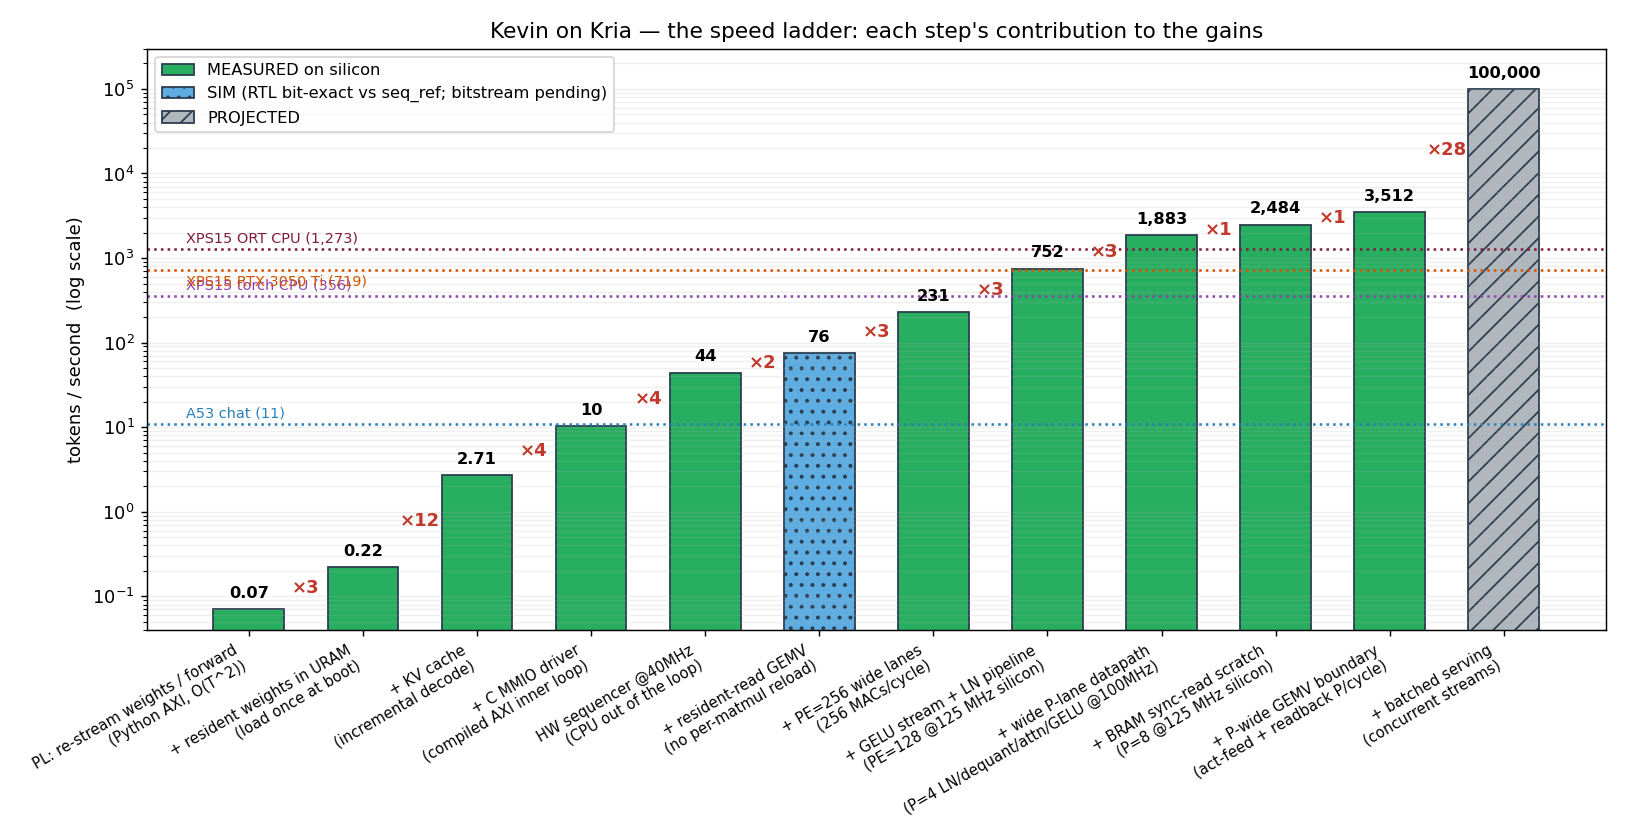
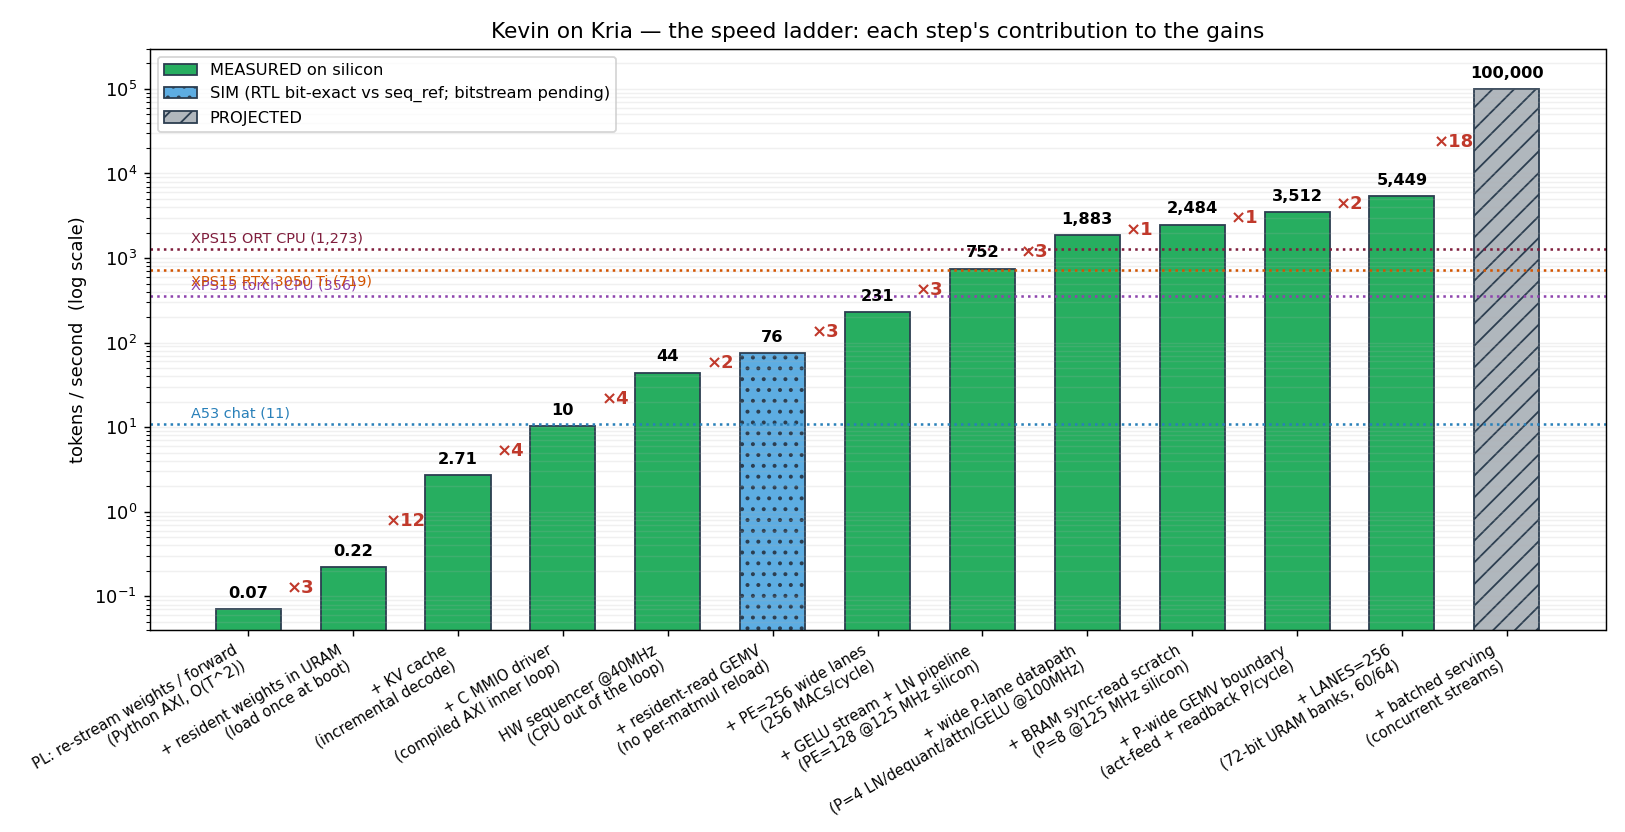
Stage 3 10k: LANES=256 MEASURED 5,448.8 tok/s @125 MHz 3/3 — day ladder 1,883 -> 2,484 -> 3,512 -> 5,449

diff --git a/fabric/progress.py b/fabric/progress.py
@@ -43,6 +43,8 @@ LADDER = [
      "LUTRAM datapath -> BRAM (50,324 cyc/tok; STA 79.5 MHz, clean to 125, breaks 142.9)"),
     ("+ P-wide GEMV boundary\n(act-feed + readback P/cycle)", 3511.6, "MEASURED",
      "the 1-elem/cyc GEMV act/readback loops (35,596 cyc/tok; 125 MHz 3/3)"),
+    ("+ LANES=256\n(72-bit URAM banks, 60/64)", 5448.8, "MEASURED",
+     "half the GEMV passes (22,941 cyc/tok; 125 MHz 3/3, breaks 142.9)"),
     ("+ batched serving\n(concurrent streams)", 100000.0, "PROJECTED",
      "per-stage idle — overlap units across streams"),
 ]

diff --git a/fabric/stage3/WIDE-WORD-DATAPATH-LOG.md b/fabric/stage3/WIDE-WORD-DATAPATH-LOG.md
@@ -401,3 +401,10 @@ URAM-native width — 15 banks × 72 b × 4 cascades = **60 URAM**. **OOC L=256:
 BRAM 143.5/144, URAM 60/64, DSP 505 — FITS.** Re-gated bit-exact at L=128 (geometry unchanged)
 and 256. The 12.6 Mbit image needs ≥45.5 URAM, so 60 is within 1.32× of the floor — the next
 lever after this is the GEMV core, not weight banking.
+
+**On silicon (MEASURED): 5,448.8 tok/s @ 125 MHz, 3/3 bit-exact, CYCLES = 22,941 == sim.**
+Sweep: 100 MHz 4,359.0 · 111.1 4,843.3 · **125 5,448.8** · 142.9 fails 0/3 (clean edge).
+Projection 5,449 → measured 5,448.8. One day, four bit-honest rungs: **1,883 → 2,484 → 3,512
+→ 5,449** (2.9×). 10k now needs ~1.85×: pipeline the GEMV/non-linears to ~200 MHz, or cut the
+~23k cyc floor (softmax overlap, attention restructure). Both are pure clock-or-cycles work
+within the proven gate ladder.
